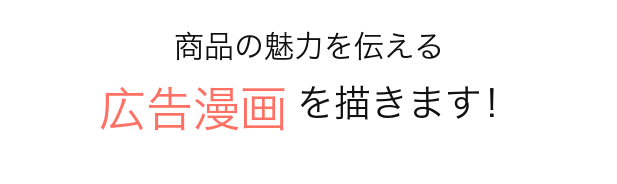
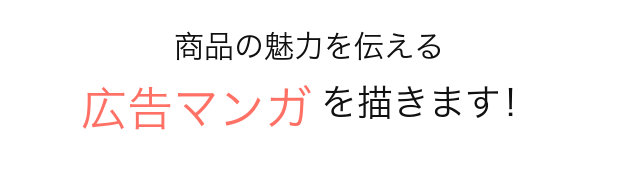
トップ吹き出しの表記を広告マンガに修正

Changed region(s): [[0.1232, 0.462, 0.8314, 0.7065]]

diff --git a/index.html b/index.html
@@ -1705,7 +1705,7 @@ a:hover {
       <div id="firstview" class="ratio position-relative" style="--bs-aspect-ratio: 33.33%">
         <div class="w-100 h-100">
           <img src="./wp-content/themes/takatsuki-nami/assets/images/top-nami.png" class="position-absolute anim-item-nami" alt="高月ナミの自画像" />
-          <img src="./wp-content/themes/takatsuki-nami/assets/images/top-fukidashi.png" class="position-absolute anim-item-fukidashi" alt="商品の魅力を伝える広告漫画を描きます！" />
+          <img src="./wp-content/themes/takatsuki-nami/assets/images/top-fukidashi.png" class="position-absolute anim-item-fukidashi" alt="商品の魅力を伝える広告マンガを描きます！" />
           <div class="position-absolute anim-item-textbox">
             <div class="container">
               <ul class="d-flex flex-wrap justify-content-center list-unstyled mt-0 mb-2">
@@ -1736,7 +1736,7 @@ a:hover {
     <section id="firstview-sp" class="d-block d-md-none position-relative overflow-hidden">
       <!-- 吹き出し + ナミ -->
       <div class="sp-fv__fukidashi position-relative">
-        <img src="./wp-content/themes/takatsuki-nami/assets/images/top-fukidashi-sp.png" class="sp-fv__fukidashi-img" alt="商品の魅力を伝える広告漫画を描きます！" />
+        <img src="./wp-content/themes/takatsuki-nami/assets/images/top-fukidashi-sp.png" class="sp-fv__fukidashi-img" alt="商品の魅力を伝える広告マンガを描きます！" />
         <img src="./wp-content/themes/takatsuki-nami/assets/images/top-nami.png" class="sp-fv__nami" alt="高月ナミ" />
       </div>
       <!-- ジャンルタグ -->